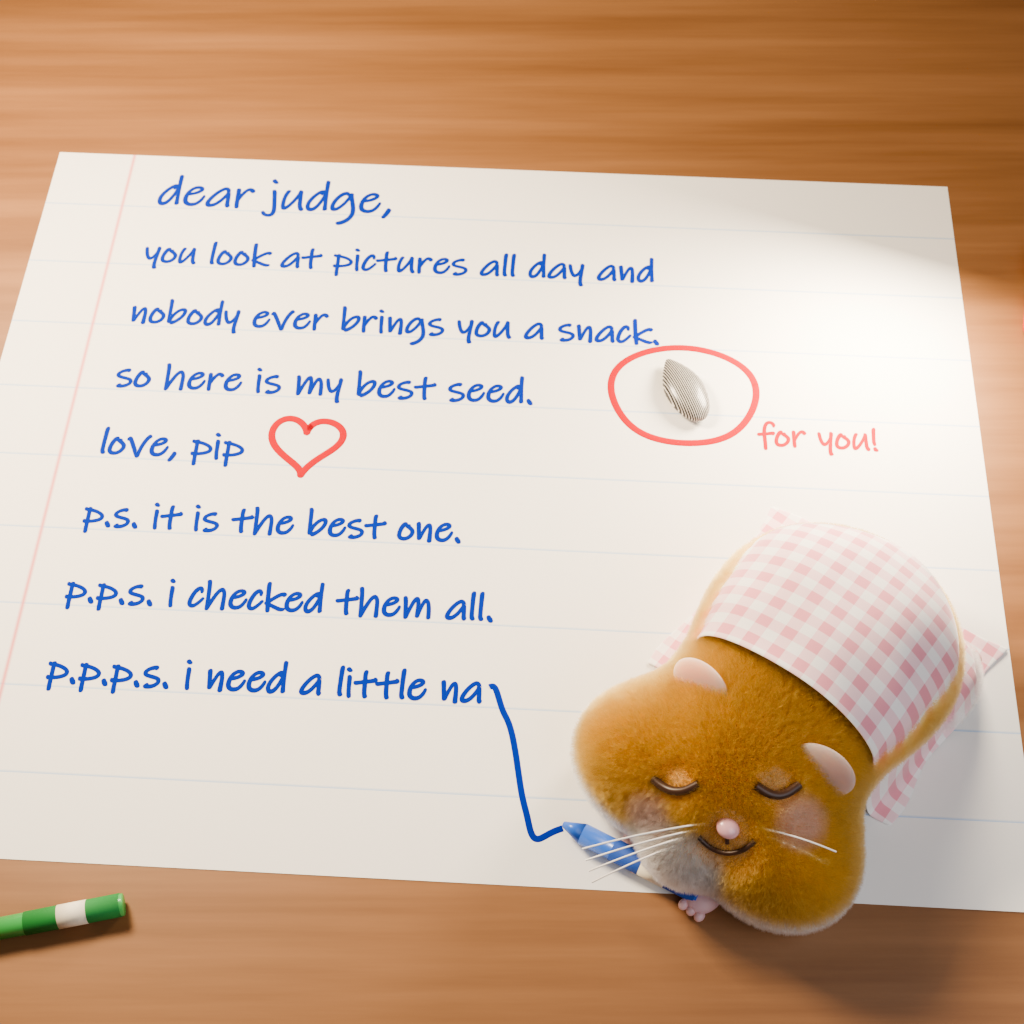
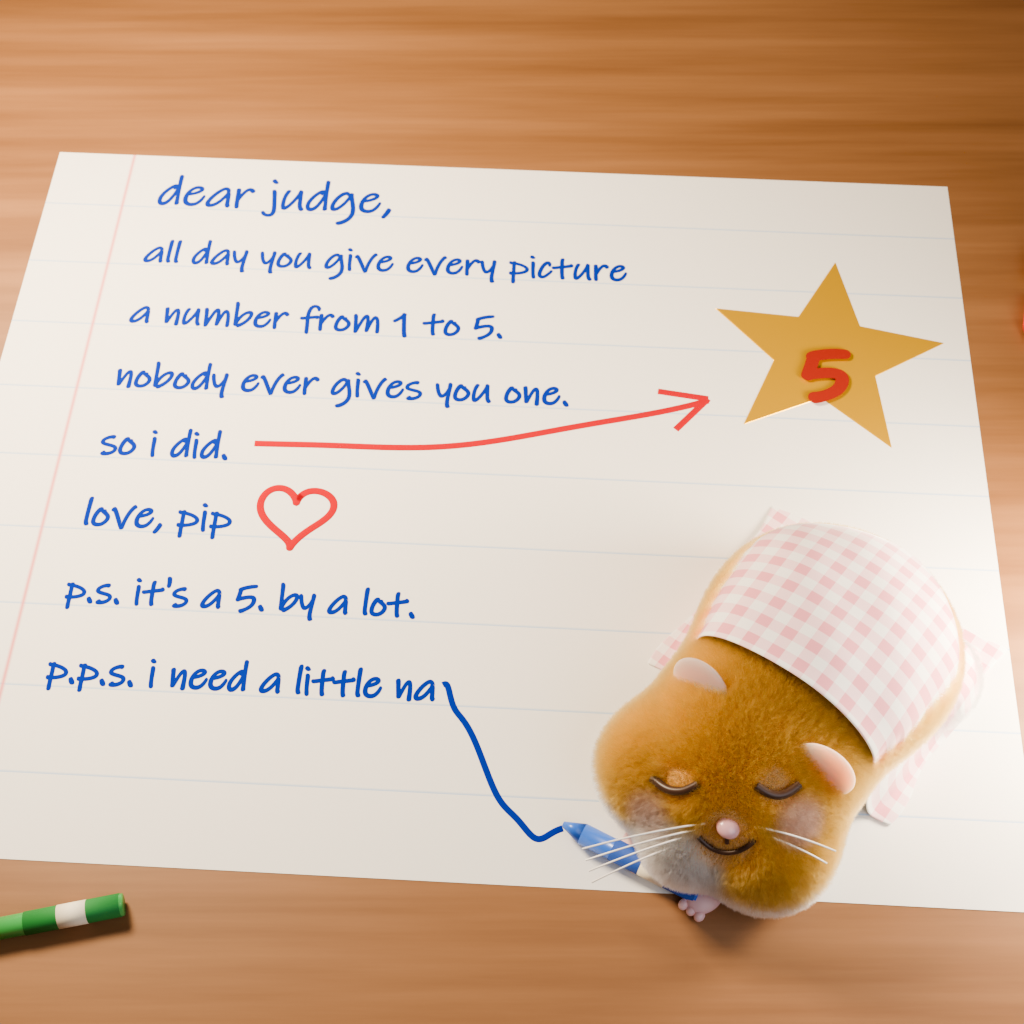
concept 2: nobody ever scores the judge, so pip gives it a gold-star 5

diff --git a/render/scene.py b/render/scene.py
@@ -457,17 +457,17 @@ def rule_y(k):
 
 
 LEFT = -PAPER_W / 2 + 0.6
-# the letter: the judge looks at pictures all day and nobody brings it a snack, so pip gives up his best seed
-# (having checked all the others, which is why his cheeks are full), and falls asleep in the last p.s.
+# the letter: the judge scores every picture from 1 to 5 and nobody ever scores the judge, so pip does (a gold
+# star with a 5 on it), and falls asleep in the last p.s.
 LETTER = [
     (4, "dear judge,", 0.4),
-    (3, "you look at pictures all day and", 0.3),
-    (2, "nobody ever brings you a snack.", 0.3),
-    (1, "so here is my best seed.", 0.3),
-    (0, "love, pip", 0.3),
-    (-1, "p.s. it is the best one.", 0.28),
-    (-2, "p.p.s. i checked them all.", 0.28),
-    (-3, "p.p.p.s. i need a little na", 0.28),
+    (3, "all day you give every picture", 0.3),
+    (2, "a number from 1 to 5.", 0.3),
+    (1, "nobody ever gives you one.", 0.3),
+    (0, "so i did.", 0.3),
+    (-1, "love, pip", 0.3),
+    (-2, "p.s. it's a 5. by a lot.", 0.27),
+    (-3, "p.p.s. i need a little na", 0.27),
 ]
 LINES = []
 for k, body, size in LETTER:
@@ -475,7 +475,7 @@ for k, body, size in LETTER:
     t.data.extrude = 0.0
     t.data.offset = 0.006  # a hair bolder, the way a crayon writes
     LINES.append(t)
-L1, L_SEED, L_SIG, L_LAST = LINES[0], LINES[3], LINES[4], LINES[-1]
+L1, L_DID, L_SIG, L_LAST = LINES[0], LINES[4], LINES[5], LINES[-1]
 
 # --- the hamster (local frame: face toward -Y, belly on the paper)
 HAM_LOC = on_paper(1.32, -1.32, 0.0)
@@ -485,8 +485,8 @@ ham = metaball_mesh("Hamster", [
     ellipsoid((0.0, 0.20, 0.25), (0.40, 0.46, 0.27)),          # body, a round loaf
     ellipsoid((0.0, 0.40, 0.21), (0.37, 0.30, 0.22)),          # rump
     ellipsoid((0.0, -0.22, 0.24), (0.34, 0.31, 0.26)),         # head, big and resting low (asleep)
-    ellipsoid((-0.25, -0.31, 0.16), (0.23, 0.21, 0.19)),       # cheek pouch L, stuffed with "checked" seeds
-    ellipsoid((0.25, -0.31, 0.16), (0.23, 0.21, 0.19)),        # cheek pouch R
+    ellipsoid((-0.2, -0.32, 0.16), (0.18, 0.18, 0.16)),        # cheek pouch L
+    ellipsoid((0.2, -0.32, 0.16), (0.18, 0.18, 0.16)),         # cheek pouch R
     ellipsoid((0.0, -0.45, 0.17), (0.12, 0.12, 0.11)),         # muzzle
     ellipsoid((0.33, 0.50, 0.07), (0.12, 0.17, 0.07)),         # hind foot peeking out
 ], M_SKIN, resolution=0.015)
@@ -780,42 +780,51 @@ def heart_xy(t, s=0.011):
             (13 * math.cos(t) - 5 * math.cos(2 * t) - 2 * math.cos(3 * t) - math.cos(4 * t)) * s * w)
 
 
-crayon_loop("Heart", (LEFT + text_width(L_SIG) + 0.3, rule_y(0) + 0.14), heart_xy)
+crayon_loop("Heart", (LEFT + text_width(L_SIG) + 0.3, rule_y(-1) + 0.14), heart_xy)
 
-# --- the gift: one real sunflower seed on the letter, ringed in red crayon, "for you" written by it
-M_SEED = new_material("Seed", (0.03, 0.03, 0.03), rough=0.35, coat=0.3)
-snt = M_SEED.node_tree
-stc = node(snt, "ShaderNodeTexCoord", (-900, 200))
-swave = node(snt, "ShaderNodeTexWave", (-700, 200), Scale=3.2, Distortion=1.2, Detail=2.0)
-swave.bands_direction = "X"
-snt.links.new(stc.outputs["Object"], swave.inputs["Vector"])
-sramp = snt.nodes.new("ShaderNodeValToRGB")
-sramp.location = (-450, 200)
-sramp.color_ramp.elements[0].position = 0.72
-sramp.color_ramp.elements[0].color = (0.02, 0.02, 0.022, 1)
-sramp.color_ramp.elements[1].position = 0.86
-sramp.color_ramp.elements[1].color = (0.75, 0.72, 0.66, 1)
-snt.links.new(swave.outputs["Fac"], sramp.inputs["Fac"])
-snt.links.new(sramp.outputs["Color"], principled_of(M_SEED).inputs["Base Color"])
-SEED_C = (LEFT + text_width(L_SEED) + 0.75, rule_y(1) + 0.12)
-seed_loc = on_paper(*SEED_C, 0.045)
-bpy.ops.mesh.primitive_uv_sphere_add(segments=32, ring_count=16, radius=1.0, location=seed_loc,
-                                     rotation=(0, 0, PAPER_ROT + math.radians(25)))
-seed = bpy.context.active_object
-seed.scale = (0.1, 0.2, 0.055)
-bm_seed = seed.data
-for v in bm_seed.vertices:  # one end pointed, like a real seed
-    if v.co.y > 0:
-        f = 1.0 - 0.55 * v.co.y ** 2
-        v.co.x *= f
-        v.co.z *= f
-seed.data.materials.append(M_SEED)
-bpy.ops.object.shade_smooth()
-crayon_loop("SeedRing", SEED_C, lambda t: (0.36 * math.cos(t) * (1 + 0.04 * math.sin(3 * t)),
-                                           0.3 * math.sin(t) * (1 + 0.04 * math.cos(2 * t))), turns=1.08)
-ft = text_object("ForYou", "for you!", "Inkfree.ttf", 0.27, on_paper(SEED_C[0] + 0.36, SEED_C[1] - 0.28),
-                 M_RED, PAPER_ROT)
-ft.data.offset = 0.005
+# --- the score: a shiny gold star sticker with a big 5 on it, and a red crayon arrow from "so i did."
+M_GOLD = new_material("GoldFoil", (0.95, 0.55, 0.05), rough=0.32, bump=0.06, bump_scale=120)
+principled_of(M_GOLD).inputs["Metallic"].default_value = 0.55
+M_FIVE = new_material("FiveInk", (0.32, 0.02, 0.01), rough=0.6)
+STAR_C = (1.72, 0.8)
+R_OUT, R_IN = 0.62, 0.27
+sv = [(0.0, 0.0, 0.0)]
+for k in range(10):
+    a = math.pi / 2 + k * math.pi / 5
+    r = R_OUT if k % 2 == 0 else R_IN
+    sv.append((r * math.cos(a), r * math.sin(a), 0.0))
+sf = [(0, 1 + k, 1 + (k + 1) % 10) for k in range(10)]
+sme = bpy.data.meshes.new("Star")
+sme.from_pydata(sv, [], sf)
+star = link(bpy.data.objects.new("Star", sme))
+star.location = on_paper(*STAR_C, 0.003)
+star.rotation_euler = (0, 0, PAPER_ROT + math.radians(-8))
+sme.materials.append(M_GOLD)
+ssol = star.modifiers.new("Thick", "SOLIDIFY")
+ssol.thickness = 0.012
+sbev = star.modifiers.new("Bevel", "BEVEL")
+sbev.width = 0.012
+sbev.segments = 3
+five = text_object("Five", "5", "Inkfree.ttf", 0.62, on_paper(STAR_C[0] - 0.15, STAR_C[1] - 0.24, 0.017), M_FIVE,
+                   PAPER_ROT + math.radians(-8))
+five.data.offset = 0.022
+# the arrow: from the end of "so i did." curving up to the star, with a two-stroke head
+a0 = Vector((LEFT + text_width(L_DID) + 0.12, rule_y(0) + 0.12))
+a1 = Vector((STAR_C[0] - 0.6, STAR_C[1] - 0.3))
+ctrl = Vector(((a0.x + a1.x) / 2, a0.y - 0.05))
+arrow = []
+for k in range(25):
+    t = k / 24
+    q = (1 - t) ** 2 * a0 + 2 * (1 - t) * t * ctrl + t * t * a1
+    arrow.append(tuple(on_paper(q.x, q.y + 0.012 * math.sin(t * 11))))
+ao = curve_object("Arrow", arrow, 0.017, M_RED)
+ao.scale = (1, 1, 0.12)
+tang = (a1 - ctrl).normalized()  # the curve's direction where it arrives
+for sgn in (-1, 1):
+    side = Vector((-tang.y, tang.x)) * sgn
+    h = [tuple(on_paper(*(a1 - tang * 0.22 + side * 0.12))), tuple(on_paper(*a1))]
+    ho = curve_object(f"ArrowHead{sgn}", h, 0.017, M_RED, smooth=False)
+    ho.scale = (1, 1, 0.12)
 
 # --- camera: from the front, looking down the desk
 target = on_paper(0.18, -0.2, 0.0)
@@ -853,7 +862,7 @@ rim.energy = 160
 rim.size = 0.8
 rim.color = (1.0, 0.85, 0.65)
 ro = link(bpy.data.objects.new("Rim", rim))
-ro.location = HAM_LOC + Vector((0.9, 2.4, 1.0))
+ro.location = HAM_LOC + Vector((1.9, 0.4, 0.9))
 ro.rotation_euler = (ro.location - HAM_LOC).to_track_quat("Z", "Y").to_euler()
 fo.rotation_euler = (fo.location - target).to_track_quat("Z", "Y").to_euler()
 world = bpy.data.worlds.new("World")
